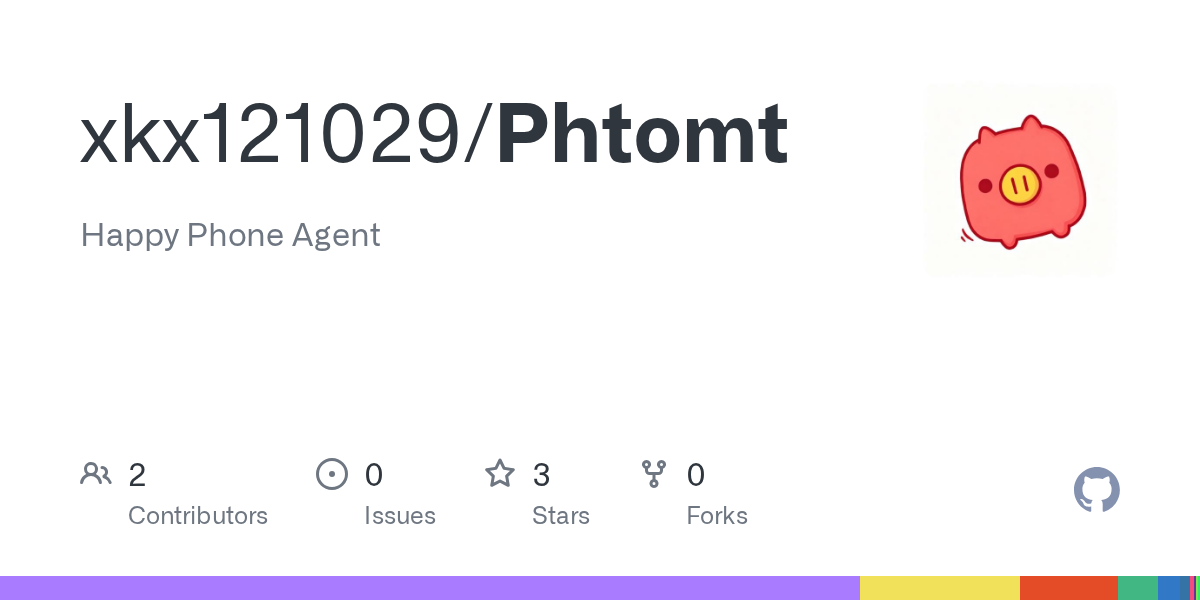
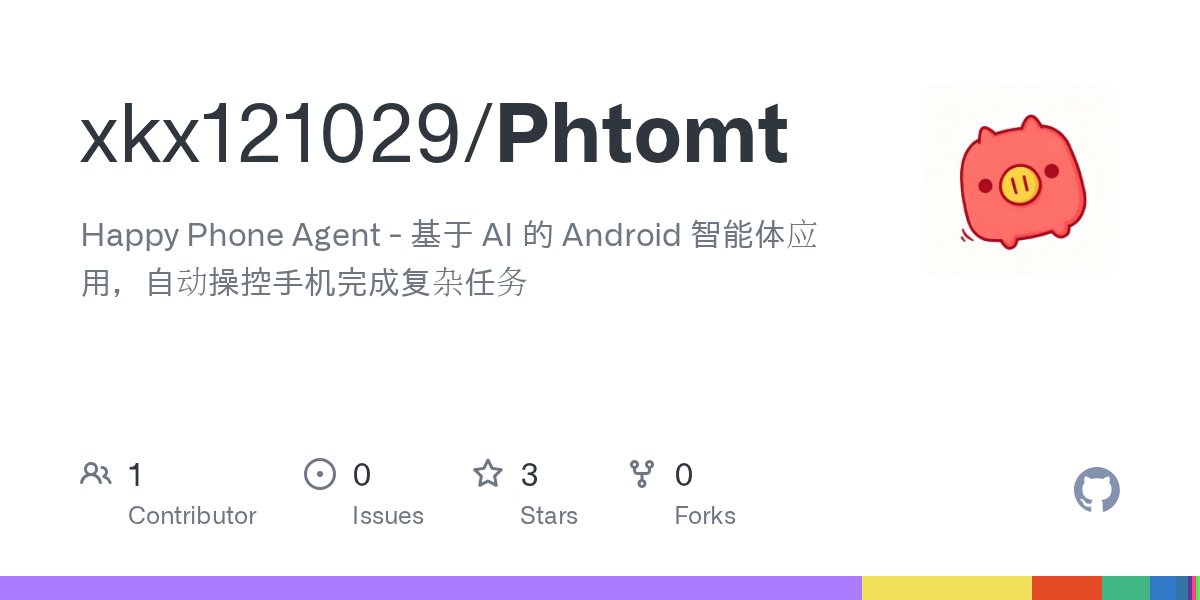
feat: cooler profile README with native Mermaid, alerts and card walls

diff --git a/preview.html b/preview.html
@@ -157,10 +157,10 @@
     <div class="alert important">
       <div class="tag">IMPORTANT · NOW</div>
       <h3>🚀 正在整</h3>
-      <b>Happy Phone Agent</b> 已开源打磨中；<b>HappyClaw</b> 在路上。
+      <b>Happy Phone Agent</b> 已开源打磨中；<b>HappyClaw</b> 也开源了，MIT。
       <ul>
         <li>☑ <code>Phtomt</code> → 能自己操控手机的 Android AI 智能体</li>
-        <li>☐ <code>HappyClaw</code> → 下一个主推，仓库还没公开</li>
+        <li>☑ <code>HappyClaw</code> → 自托管、可插拔的 AI 助手运行时（MIT）</li>
       </ul>
       <sub>偏好很固定：<kbd>零依赖</kbd> <kbd>单文件</kbd> <kbd>双击即玩</kbd> <kbd>自己能托管</kbd></sub>
     </div>
@@ -174,12 +174,12 @@
         <span class="sub">基于 AI 的 Android 智能体，自动操控手机完成复杂任务。</span><br>
         <a class="btn" href="https://github.com/xkx121029/Phtomt">→ 打开仓库</a>
       </div>
-      <div class="card wip">
-        <div class="emoji">🦀</div>
-        <b>HappyClaw</b><br>
-        <img src="./assets/badge-wip.svg" alt=""><img src="./assets/badge-coming-soon.svg" alt=""><br>
-        <span class="sub">下一个主推项目 · 正在整<br>先占位，不编链接</span><br>
-        <div style="font-size:26px;margin-top:10px">🧩 ⚙ 🛠 🧠 🔧</div>
+      <div class="card">
+        <a href="https://github.com/xkx121029/HappyClaw"><img class="cover" src="./assets/og-HappyClaw.png" alt="HappyClaw"></a>
+        <b>🦀 HappyClaw</b><br>
+        <img src="./assets/badge-python.svg" alt=""><img src="./assets/badge-self-hosted.svg" alt=""><img src="./assets/badge-mit.svg" alt=""><br>
+        <span class="sub">自托管、可插拔的 AI 助手运行时，MIT 协议。</span><br>
+        <a class="btn" href="https://github.com/xkx121029/HappyClaw">→ 打开仓库</a>
       </div>
     </div>
 
@@ -282,10 +282,10 @@
       <tr><th>方向</th><th>密度</th><th>数量</th><th>走势</th></tr>
       <tr><td>🔧 自托管 / 基建</td><td class="meter">████████████████████</td><td class="num"><b>10</b></td><td class="spark">▁▂▃▅▆▇█▆</td></tr>
       <tr><td>🖥 桌面 / 工具</td><td class="meter" style="color:var(--purple)">████████████░░░░░░░░</td><td class="num"><b>6</b></td><td class="spark">▂▄▆█▆▄▂</td></tr>
-      <tr><td>🤖 AI & 智能体</td><td class="meter" style="color:var(--green)">██████████░░░░░░░░░░</td><td class="num"><b>5</b></td><td class="spark">▁▃▅▇▅▃▁</td></tr>
+      <tr><td>🤖 AI & 智能体</td><td class="meter" style="color:var(--green)">██████████</td><td class="num"><b>10</b></td><td class="spark">▁▃▅▇█▇▅</td></tr>
       <tr><td>📱 Android / 客户端</td><td class="meter" style="color:var(--amber)">██████████░░░░░░░░░░</td><td class="num"><b>5</b></td><td class="spark">▂▄▆▆▄▂▁</td></tr>
       <tr><td>🎮 3D / 小游戏</td><td class="meter" style="color:var(--pink)">██████░░░░░░░░░░░░░░</td><td class="num"><b>3</b></td><td class="spark">▁▂▄▃▂▁▁</td></tr>
-      <tr><td>🌐 Web / CMS</td><td class="meter" style="color:var(--cyan)">██░░░░░░░░░░░░░░░░░░░░</td><td class="num"><b>1</b></td><td class="spark">▁▁▂▁▁▁▁</td></tr>
+      <tr><td>🌐 Web / CMS</td><td class="meter" style="color:var(--cyan)">████░░░░░░░░░░░░░░░░░░</td><td class="num"><b>2</b></td><td class="spark">▁▁▂▃▂▁▁</td></tr>
     </table>
     <div class="nums" id="nums">
       <div class="num"><b data-to="30">0</b><span>开源项目</span></div>
@@ -297,7 +297,7 @@
     <h2><span class="idx">05</span> 📦 全部项目</h2>
     <div class="alert tip">
       <div class="tag">6 个方向 · 折叠展示</div>
-      🤖 AI & 智能体 5 · 🔧 自托管 / 基建 10 · 📱 Android / 客户端 5 · 🖥 桌面 / 工具 6 · 🎮 3D / 小游戏 3 · 🌐 Web / CMS 1
+      🤖 AI & 智能体 10 · 🔧 自托管 / 基建 10 · 📱 Android / 客户端 5 · 🖥 桌面 / 工具 6 · 🎮 3D / 小游戏 3 · 🌐 Web / CMS 2
     </div>
 
     <h2><span class="idx">06</span> 📫 找得到我</h2>
@@ -308,7 +308,7 @@
     </tr></table>
 
     <footer>
-      <div>⚡ 30 repos · mostly named happy · all built from scratch.</div>
+      <div>⚡ 36 repos · mostly named happy · all built from scratch.</div>
       <div class="foot-emoji">🟪 🟦 🟩 🟨 🟧 🟥</div>
       <div style="margin-top:8px"><kbd>build</kbd> <kbd>ship</kbd> <kbd>repeat</kbd></div>
     </footer>

diff --git a/assets.html b/assets.html
@@ -89,7 +89,8 @@ const groups=[
     ['badge-stars.svg','实时 star 总数','GitHub API → '+B+'N%20stars-f778ba'],
     ['badge-starstruck.svg','Starstruck x2',B+'Starstruck%20x2-f778ba'],['badge-dalian.svg','Dalian',B+'Dalian-39c5cf'],
     ['badge-self-hosted.svg','self-hosted',B+'self-hosted-238636'],['badge-mcp.svg','MCP / ACP',B+'MCP%20ACP-6f42c1'],
-    ['badge-docker.svg','Docker',B+'Docker-2496ED'],['badge-tauri.svg','Tauri 2',B+'Tauri2-FFC131']
+    ['badge-docker.svg','Docker',B+'Docker-2496ED'],['badge-tauri.svg','Tauri 2',B+'Tauri2-FFC131'],
+    ['badge-mit.svg','MIT 协议',B+'MIT-yellow']
   ]},
   {title:'🅱 大徽章 / for-the-badge',note:'shields.io · 顶部主推',items:[
     ['badge-large-phone.svg','Happy Phone Agent',B+'Happy%20Phone%20Agent-A97BFF?style=for-the-badge'],
@@ -111,7 +112,8 @@ const groups=[
     ['og-happy-relay.png','happy-relay',OG+'happy-relay'],
     ['og-AioShell.png','AioShell',OG+'AioShell'],
     ['og-HappyLook.png','HappyLook',OG+'HappyLook'],
-    ['og-happy-cloud.png','happy-cloud',OG+'happy-cloud']
+    ['og-happy-cloud.png','happy-cloud',OG+'happy-cloud'],
+    ['og-HappyClaw.png','HappyClaw（MIT AI 运行时）',OG+'HappyClaw']
   ]},
   {title:'👤 头像',note:'GitHub 官方头像',items:[
     ['avatar.jpg','个人头像','https://github.com/xkx121029.png?size=240']

diff --git a/README.md b/README.md
@@ -8,17 +8,17 @@
 
 <p align="center">
   <a href="https://github.com/xkx121029/Phtomt"><img src="./assets/badge-large-phone.svg" alt="Happy Phone Agent"></a>
-  <img src="./assets/badge-large-claw.svg" alt="HappyClaw">
+  <a href="https://github.com/xkx121029/HappyClaw"><img src="./assets/badge-large-claw.svg" alt="HappyClaw"></a>
 </p>
 
 <p align="center">
-  <img src="./assets/badge-repos.svg?v=202611231641" alt="repos">
-  <img src="./assets/badge-forks.svg?v=202611231641" alt="forks">
-  <img src="./assets/badge-stars.svg?v=202611231641" alt="stars">
+  <img src="./assets/badge-repos.svg?v=202611241333" alt="repos">
+  <img src="./assets/badge-forks.svg?v=202611241333" alt="forks">
+  <img src="./assets/badge-stars.svg?v=202611241333" alt="stars">
   <img src="./assets/badge-starstruck.svg" alt="Starstruck x2">
   <img src="./assets/badge-dalian.svg" alt="Dalian">
   <img src="./assets/badge-self-hosted.svg" alt="self-hosted">
-  <img src="./assets/visitors.svg?v=202611231641" alt="profile views">
+  <img src="./assets/visitors.svg?v=202611241333" alt="profile views">
 </p>
 
 <p align="center">
@@ -34,10 +34,10 @@
 
 > [!IMPORTANT]
 > ### 🚀 NOW
-> **Happy Phone Agent** 已开源，正在打磨；**HappyClaw** 在整，路上。
+> **Happy Phone Agent** 已开源，正在打磨；**HappyClaw** 也开源了，MIT。
 >
 > - [x] `Phtomt` → 能自己操控手机的 Android AI 智能体
-> - [ ] `HappyClaw` → 下一个主推，仓库还没公开
+> - [x] `HappyClaw` → 自托管、可插拔的 AI 助手运行时（MIT）
 >
 > <sub>偏好很固定：<kbd>零依赖</kbd> <kbd>单文件</kbd> <kbd>双击即玩</kbd> <kbd>自己能托管</kbd></sub>
 
@@ -48,7 +48,7 @@
 <table>
   <tr>
     <td width="50%" align="center" valign="top">
-      <a href="https://github.com/xkx121029/Phtomt"><img src="./assets/og-Phtomt.png?v=202611231641" width="370" alt="Phtomt 仓库官方预览卡"></a><br><br>
+      <a href="https://github.com/xkx121029/Phtomt"><img src="./assets/og-Phtomt.png?v=202611241333" width="370" alt="Phtomt 仓库官方预览卡"></a><br><br>
       <b>🤖 Happy Phone Agent</b><br><br>
       <img src="./assets/badge-kotlin.svg" alt="Kotlin">
       <img src="./assets/badge-android.svg" alt="Android">
@@ -57,15 +57,13 @@
       <a href="https://github.com/xkx121029/Phtomt"><b>→ 打开仓库</b></a>
     </td>
     <td width="50%" align="center" valign="top">
-      <br><br><br>
+      <a href="https://github.com/xkx121029/HappyClaw"><img src="./assets/og-HappyClaw.png?v=202611241333" width="370" alt="HappyClaw 仓库官方预览卡"></a><br><br>
       <b>🦀 HappyClaw</b><br><br>
-      <img src="./assets/badge-wip.svg" alt="WIP">
-      <img src="./assets/badge-coming-soon.svg" alt="Coming Soon"><br><br>
-      <sub>下一个主推项目 · 正在整</sub><br><br>
-      <b>先占位，不编链接</b><br>
-      <sub>GitHub 上暂时查不到公开仓库，开源了立刻补上真实地址</sub><br><br>
-      🧩 ⚙ 🛠 🧠 🔧
-      <br><br><br><br><br><br>
+      <img src="./assets/badge-python.svg" alt="Python">
+      <img src="./assets/badge-self-hosted.svg" alt="self-hosted">
+      <img src="./assets/badge-mit.svg" alt="MIT"><br><br>
+      自托管、可插拔的 AI 助手运行时，MIT 协议。<br><br>
+      <a href="https://github.com/xkx121029/HappyClaw"><b>→ 打开仓库</b></a>
     </td>
   </tr>
 </table>
@@ -79,21 +77,21 @@
 <table>
   <tr>
     <td align="center" width="50%">
-      <a href="https://github.com/xkx121029/happy-search"><img src="./assets/og-happy-search.png?v=202611231641" width="390" alt="happy-search"></a><br>
+      <a href="https://github.com/xkx121029/happy-search"><img src="./assets/og-happy-search.png?v=202611241333" width="390" alt="happy-search"></a><br>
       <b>🔍 happy-search</b> · <sub>多引擎聚合搜索 API</sub>
     </td>
     <td align="center" width="50%">
-      <a href="https://github.com/xkx121029/happy-relay"><img src="./assets/og-happy-relay.png?v=202611231641" width="390" alt="happy-relay"></a><br>
+      <a href="https://github.com/xkx121029/happy-relay"><img src="./assets/og-happy-relay.png?v=202611241333" width="390" alt="happy-relay"></a><br>
       <b>🔁 happy-relay</b> · <sub>OpenAI 兼容模型中转</sub>
     </td>
   </tr>
   <tr>
     <td align="center" width="50%">
-      <a href="https://github.com/xkx121029/AioShell"><img src="./assets/og-AioShell.png?v=202611231641" width="390" alt="AioShell"></a><br>
+      <a href="https://github.com/xkx121029/AioShell"><img src="./assets/og-AioShell.png?v=202611241333" width="390" alt="AioShell"></a><br>
       <b>🐚 AioShell</b> · <sub>带 MCP / ACP 的工作区</sub>
     </td>
     <td align="center" width="50%">
-      <a href="https://github.com/xkx121029/happy-cloud"><img src="./assets/og-happy-cloud.png?v=202611231641" width="390" alt="happy-cloud"></a><br>
+      <a href="https://github.com/xkx121029/happy-cloud"><img src="./assets/og-happy-cloud.png?v=202611241333" width="390" alt="happy-cloud"></a><br>
       <b>☁ happy-cloud</b> · <sub>私有云盘</sub>
     </td>
   </tr>
@@ -103,7 +101,7 @@
 
 ## 👋 关于我
 
-大连，一个人把想法从 0 整到能跑。30 个开源项目，几乎全是从零起的，**名字基本都以 happy 开头**。
+大连，一个人把想法从 0 整到能跑。36 个开源项目，几乎全是从零起的，**名字基本都以 happy 开头**。
 
 > [!TIP]
 > **「能不能自己整一个？」——能，就整了。**
@@ -199,15 +197,15 @@ quadrantChart
 </details>
 
 <details>
-<summary>📊 柱状图 + 折线 · 30 个项目的方向分布</summary>
+<summary>📊 柱状图 + 折线 · 36 个项目的方向分布</summary>
 
 ```mermaid
 xychart-beta
-    title "30 个开源项目 · 方向分布"
+    title "36 个开源项目 · 方向分布"
     x-axis ["基建", "桌面", "AI", "客户端", "3D", "Web"]
     y-axis "项目数" 0 --> 12
-    bar [10, 6, 5, 5, 3, 1]
-    line [10, 6, 5, 5, 3, 1]
+    bar [10, 6, 10, 5, 3, 2]
+    line [10, 6, 10, 5, 3, 2]
 ```
 
 </details>
@@ -295,30 +293,31 @@ sankey-beta
 
 ## 📊 数据 & 项目版图
 
-<img src="./assets/streak.svg?v=202611231641" alt="GitHub contribution streak">
+<img src="./assets/streak.svg?v=202611241333" alt="GitHub contribution streak">
 
 | 方向 | 密度 | 数量 | 走势 |
 | :--- | :--- | ---: | :--- |
 | 🔧 自托管 / 基建 | `████████████████████` | **10** | `▁▂▃▅▆▇█▆` |
 | 🖥 桌面 / 工具 | `████████████░░░░░░░░` | **6** | `▂▄▆█▆▄▂` |
-| 🤖 AI & 智能体 | `██████████░░░░░░░░░░` | **5** | `▁▃▅▇▅▃▁` |
+| 🤖 AI & 智能体 | `██████████` | **10** | `▁▃▅▇█▇▅` |
 | 📱 Android / 客户端 | `██████████░░░░░░░░░░` | **5** | `▂▄▆▆▄▂▁` |
 | 🎮 3D / 小游戏 | `██████░░░░░░░░░░░░░░` | **3** | `▁▂▄▃▂▁▁` |
-| 🌐 Web / CMS | `██░░░░░░░░░░░░░░░░░░░░` | **1** | `▁▁▂▁▁▁▁` |
+| 🌐 Web / CMS | `████░░░░░░░░░░░░░░░░░░` | **2** | `▁▁▂▃▂▁▁` |
 
 <details>
 <summary>🗺 项目版图（Mermaid flowchart）</summary>
 
 ```mermaid
 flowchart TB
-  ME(["🧑💻 xkx121029<br/>30 repos · 0 fork"]):::me
-  ME --> AI["🤖 AI & 智能体<br/>5"]:::ai
+  ME(["🧑💻 xkx121029<br/>36 repos · 0 fork"]):::me
+  ME --> AI["🤖 AI & 智能体<br/>10"]:::ai
   ME --> INFRA["🔧 自托管 / 基建<br/>10"]:::infra
   ME --> MOB["📱 Android / 客户端<br/>5"]:::mob
   ME --> DESK["🖥 桌面 / 工具<br/>6"]:::desk
   ME --> GAME["🎮 3D / 小游戏<br/>3"]:::game
-  ME --> WEB["🌐 Web / CMS<br/>1"]:::web
+  ME --> WEB["🌐 Web / CMS<br/>2"]:::web
   AI --> NOW1("🚀 Happy Phone Agent"):::hot
+  AI --> NOW3("🦀 HappyClaw"):::hot
   INFRA --> NOW2("happy-search · happy-relay"):::hot
   classDef me fill:#30363d,stroke:#8b949e,stroke-width:2px,color:#fff
   classDef ai fill:#6e40c9,stroke:#a371f7,color:#fff
@@ -336,13 +335,13 @@ flowchart TB
 <summary>🥧 展开看方向占比（Mermaid 饼图）</summary>
 
 ```mermaid
-pie title 30 个开源项目 · 方向分布
+pie title 36 个开源项目 · 方向分布
     "自托管 / 基建" : 10
     "桌面 / 工具" : 6
-    "AI & 智能体" : 5
+    "AI & 智能体" : 10
     "Android / 客户端" : 5
     "3D / 小游戏" : 3
-    "Web / CMS" : 1
+    "Web / CMS" : 2
 ```
 
 </details>
@@ -352,9 +351,9 @@ pie title 30 个开源项目 · 方向分布
 ## 📦 全部项目
 
 <details>
-<summary>🤖 AI & 智能体 · 5</summary>
+<summary>🤖 AI & 智能体 · 10</summary>
 
-[Phtomt](https://github.com/xkx121029/Phtomt) · [AioShell](https://github.com/xkx121029/AioShell) · [HappyBrowser](https://github.com/xkx121029/HappyBrowser) · [happy_android_ai_see](https://github.com/xkx121029/happy_android_ai_see) · [runtime-console](https://github.com/xkx121029/runtime-console)
+[Phtomt](https://github.com/xkx121029/Phtomt) · [HappyClaw](https://github.com/xkx121029/HappyClaw) · [happyclaw-gateway](https://github.com/xkx121029/happyclaw-gateway) · [happyclaw-harness](https://github.com/xkx121029/happyclaw-harness) · [happyclaw-memory](https://github.com/xkx121029/happyclaw-memory) · [happyclaw-browser](https://github.com/xkx121029/happyclaw-browser) · [AioShell](https://github.com/xkx121029/AioShell) · [HappyBrowser](https://github.com/xkx121029/HappyBrowser) · [happy_android_ai_see](https://github.com/xkx121029/happy_android_ai_see) · [runtime-console](https://github.com/xkx121029/runtime-console)
 
 </details>
 
@@ -387,13 +386,13 @@ pie title 30 个开源项目 · 方向分布
 </details>
 
 <details>
-<summary>🌐 Web / CMS · 1</summary>
+<summary>🌐 Web / CMS · 2</summary>
 
-[happy_home](https://github.com/xkx121029/happy_home)
+[happy_home](https://github.com/xkx121029/happy_home) · [wharf](https://github.com/xkx121029/wharf)
 
 </details>
 
-<sub>🎯 主推另见上方双卡：Happy Phone Agent / Phtomt · HappyClaw（仓库待补）</sub>
+<sub>🎯 主推另见上方双卡：Happy Phone Agent / Phtomt · HappyClaw</sub>
 
 ---
 
@@ -414,7 +413,7 @@ pie title 30 个开源项目 · 方向分布
 
 <div align="center">
 
-<sub>⚡ 30 repos · mostly named happy · all built from scratch.</sub><br>
+<sub>⚡ 36 repos · mostly named happy · all built from scratch.</sub><br>
 <sub>🟪 🟦 🟩 🟨 🟧 🟥　·　<kbd>build</kbd> <kbd>ship</kbd> <kbd>repeat</kbd></sub>
 
 </div>
@@ -432,12 +431,12 @@ pie title 30 个开源项目 · 方向分布
   在 GitHub Actions 的境外 runner 上执行 scripts/refresh-assets.mjs：
     - 调 GitHub API 拿实时仓库数 / fork 数 / star 总数 -> 重生成 3 张数字徽章
     - 重抓 streak（radical 主题）、komarev 访客计数、GitHub 官方头像
-    - 重抓 6 张官方仓库 OG 封面（含 happy-cloud，URL 带时间戳破缓存）
+    - 重抓 7 张官方仓库 OG 封面（含 happy-cloud / HappyClaw，URL 带时间戳破缓存）
     - 内容有变化才写盘并提交；下载失败保留上一次成功的图片
     - 静态素材（双行图标条 / 三行打字机 / for-the-badge 徽章）只在缺失时补齐，URL 已同步新版
     - 图片后的 ?v= 是脚本维护的缓存版本号，用于破 GitHub 图片代理缓存，请勿手动删除
 
-  【人工维护】正文里的「30 个项目」、分组数字（5/10/5/6/3/1）、字符进度条、sparkline
+  【人工维护】正文里的「36 个项目」、分组数字（10/10/5/6/3/2）、字符进度条、sparkline
   与所有 Mermaid 图里的数据都是同一份分类快照，脚本不改正文文字，只更新徽章数字和图片。
 
   上线：把本目录全部内容（含 assets/、scripts/、.github/）作为 xkx121029/xkx121029 仓库根目录推送。
